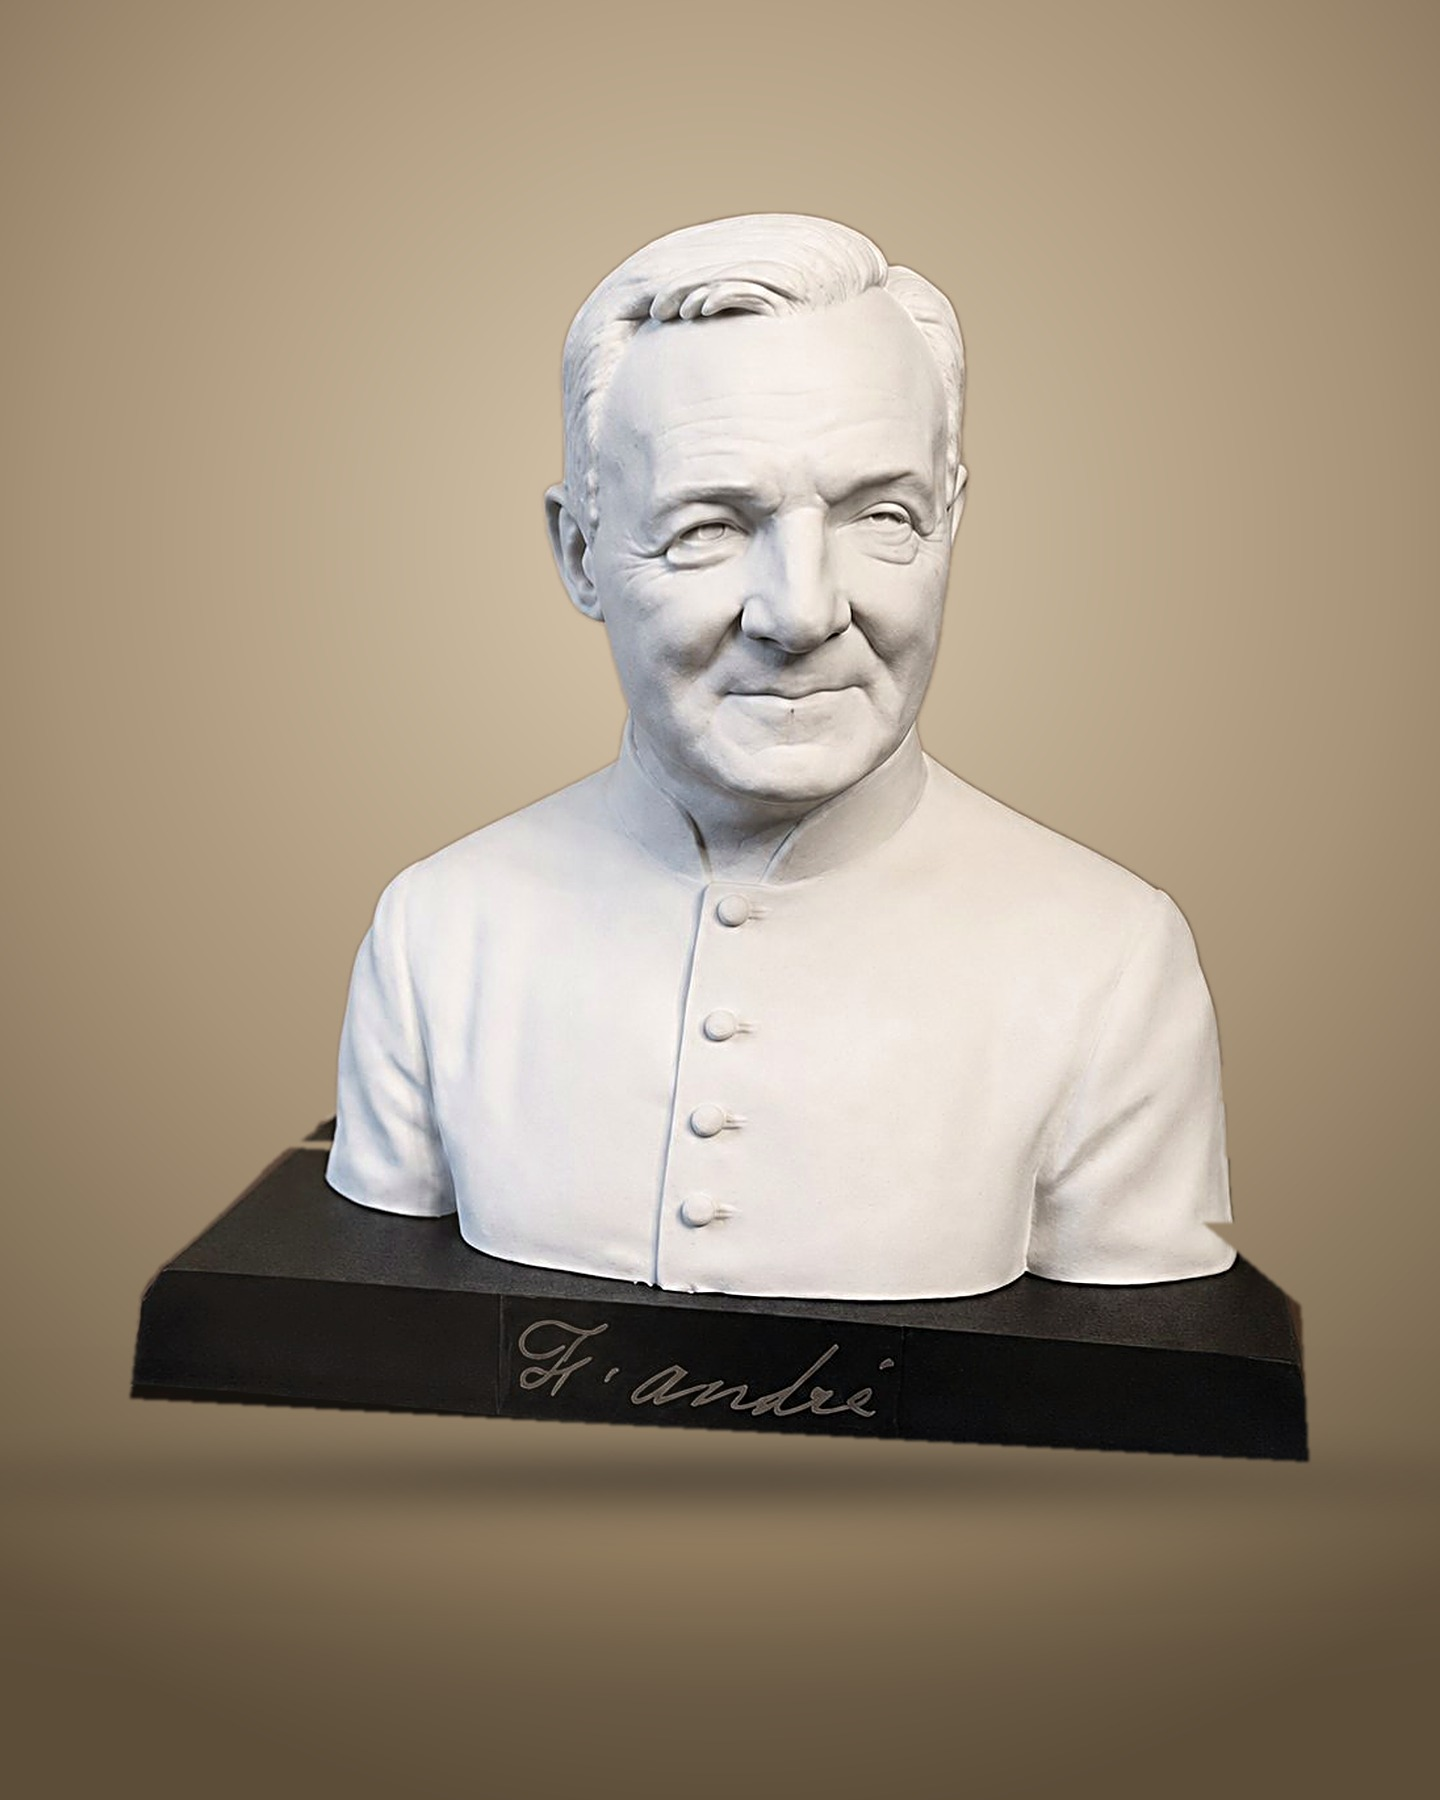
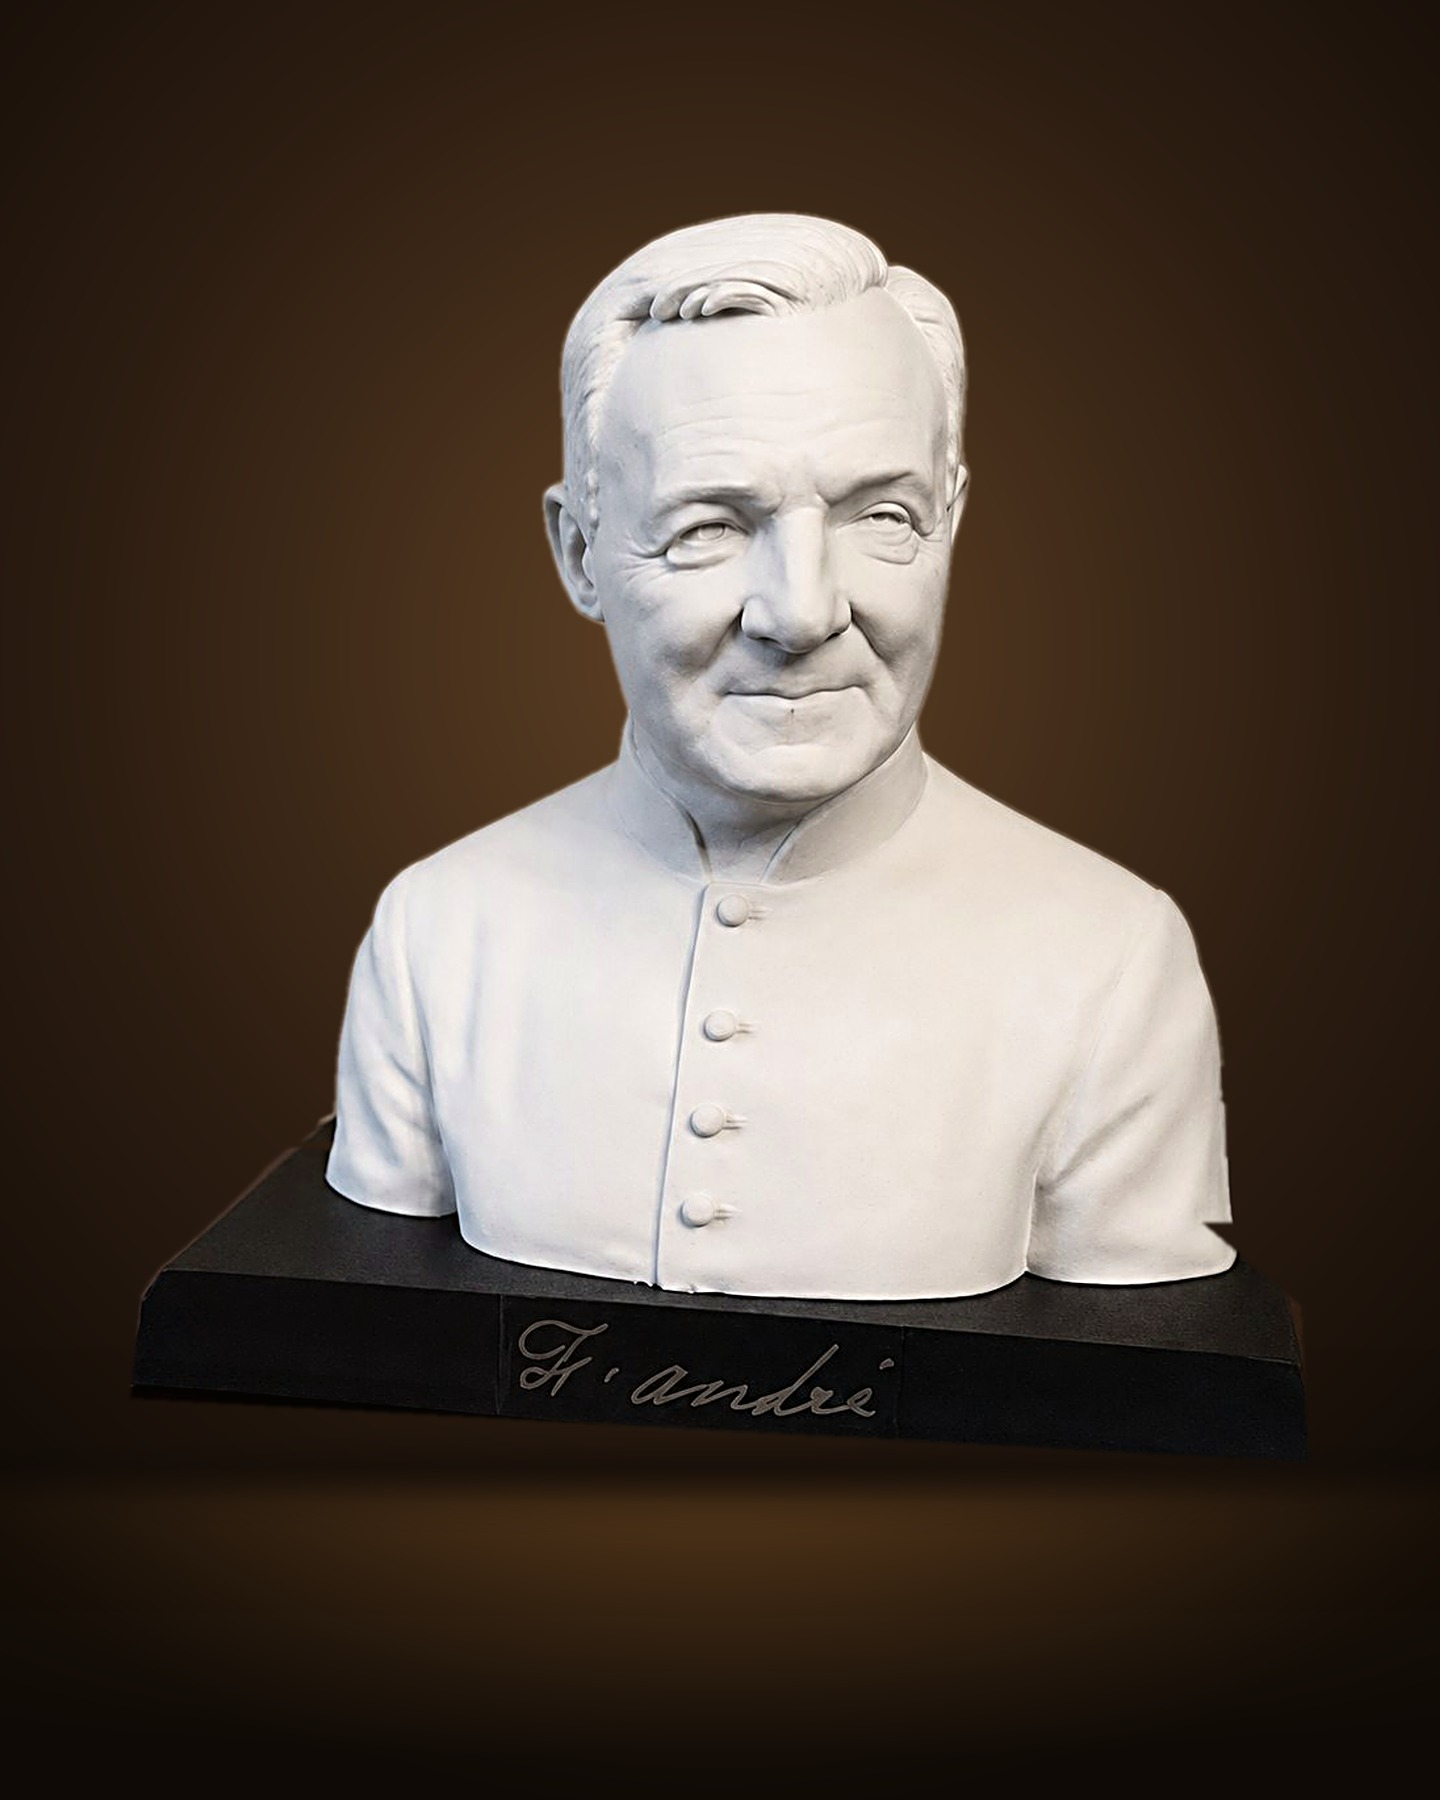
Fix store-wide 500s: WAL mode + busy_timeout in db(), commit migration suite so no caller holds the write lock; geo lookup no longer holds a connection across its HTTP call. Statue photos: dark studio background (matches lamp galleries)

diff --git a/server.py b/server.py
@@ -369,6 +369,7 @@ def _country_for(ip, ip_hash):
         if row:
             conn.close()
             return row[0] or ""
+        conn.close()  # never hold a connection across the HTTP lookup
         country = ""
         if ip and not ip.startswith(("10.", "192.168.", "172.16.", "172.17.",
                                       "172.18.", "172.19.", "172.2", "172.30.",
@@ -381,6 +382,7 @@ def _country_for(ip, ip_hash):
                 country = r.read().decode("utf-8", "ignore").strip()[:60]
                 if country.lower() in ("undefined", "none", "reserved"):
                     country = ""
+        conn = db()
         conn.execute("INSERT OR REPLACE INTO geo_cache (ip_hash, country, created) "
                      "VALUES (?,?,?)", (ip_hash, country, now_iso()))
         conn.commit()
@@ -446,8 +448,14 @@ def api_track():
 
 # ---------- db ----------
 def db():
-    conn = sqlite3.connect(DB)
+    conn = sqlite3.connect(DB, timeout=30)
     conn.row_factory = sqlite3.Row
+    # WAL: readers never block behind a writer, and writers queue on the
+    # busy timeout instead of failing with "database is locked" (the
+    # 2026-10-24 outage: every dynamic page 500'd after ~5s stalls).
+    conn.execute("PRAGMA journal_mode=WAL")
+    conn.execute("PRAGMA busy_timeout=30000")
+    conn.execute("PRAGMA synchronous=NORMAL")
     conn.execute(
         "CREATE TABLE IF NOT EXISTS products "
         "(id TEXT PRIMARY KEY, name TEXT, price_cents INTEGER DEFAULT 0, "
@@ -728,6 +736,13 @@ def db():
             conn.execute(ddl)
         except sqlite3.OperationalError:
             pass
+    # Commit the schema/migration suite NOW. The statements above are
+    # idempotent setup; leaving their transaction open would hold the
+    # write lock for the caller's whole lifetime, so one slow caller
+    # (e.g. an analytics geo lookup) blocked every other request until
+    # its busy timeout and the store 500'd (2026-10-24). Callers still
+    # commit their own writes as before.
+    conn.commit()
     return conn
 
 
